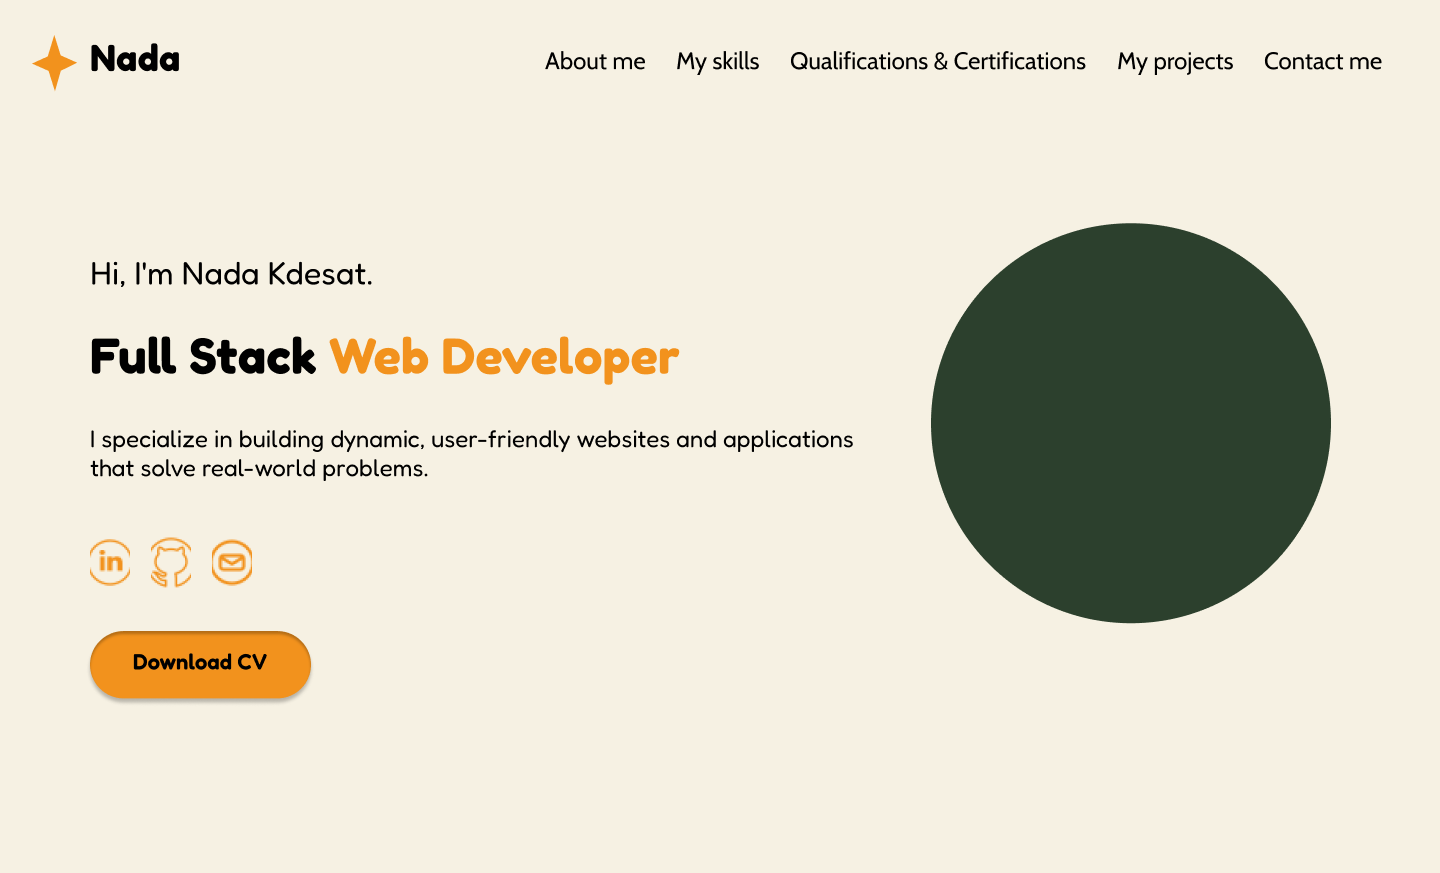
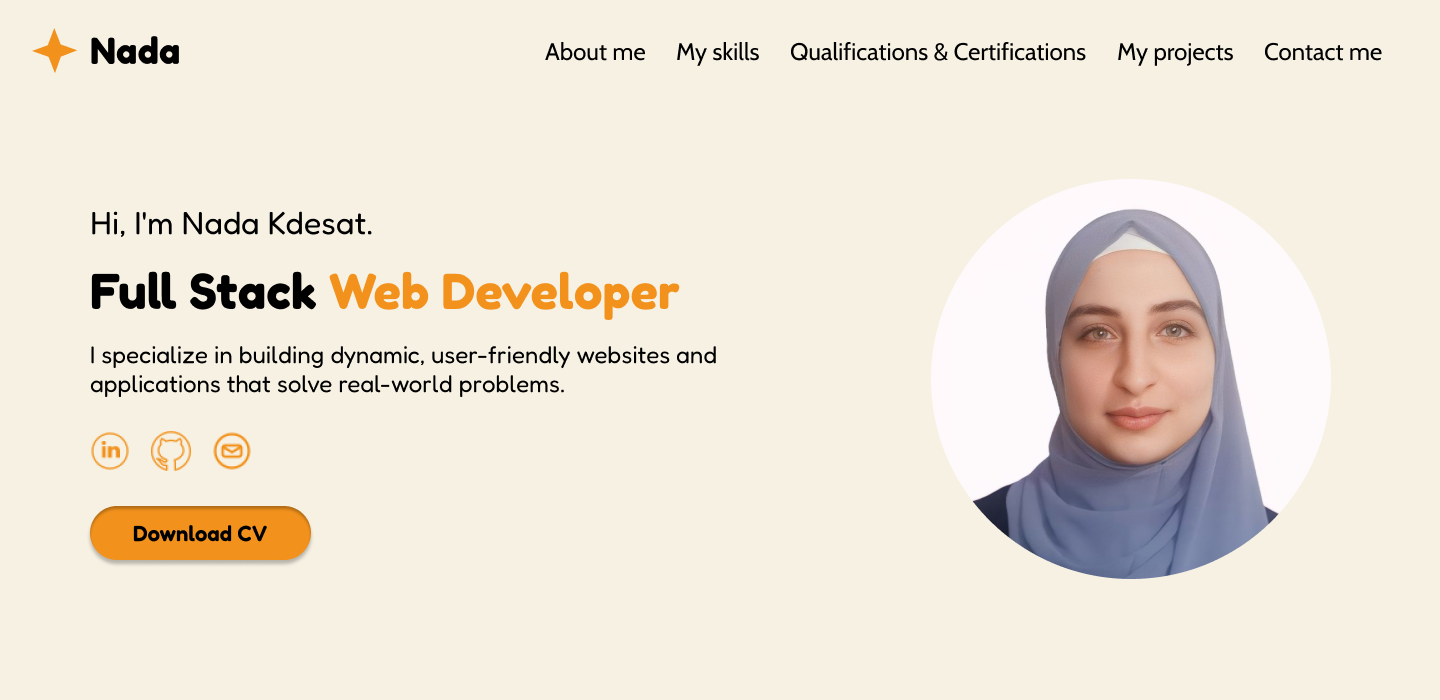
Portfolio

diff --git a/main.css b/main.css
@@ -68,10 +68,14 @@
 }
 
 .Hero_Section_content .content .social a{
-    margin: 0px 10px 0px 5px;
+    margin: 0px 5px 0px 5px;
     color: #F2921D;
     font-size: 1.8rem;
     text-decoration: none;
+}
+
+.Hero_Section_content .content .social a:hover{
+    transform: scale(1.2);
 }
 
 .Hero_Section_content .content .button{
@@ -276,6 +280,21 @@
     border-radius: 10px;
 }
 
+.Projects .flex-card .Project1:hover{
+    transform: scale(1.05);
+
+}
+
+.Projects .flex-card .Project2:hover{
+    transform: scale(1.05);
+
+}
+
+.Projects .flex-card .Project3:hover{
+    transform: scale(1.05);
+
+}
+
 .Projects .flex-card h3{
     margin-top: 30px;
     font-family: 'Fredoka';
@@ -324,7 +343,7 @@
 
 /*************************************************************************/
 .Contact_Me{
-    margin-bottom: 100px;
+    margin-bottom: 50px;
     height: 750px;
     padding: 40px;
     text-align: center;
@@ -388,7 +407,7 @@ footer {
   }
   
   .footer-logo {
-    margin-bottom: 80px;
+    margin-bottom: 60px;
     max-width: 300px;
   }
   
@@ -398,7 +417,7 @@ footer {
   }
   
   .footer-logo p {
-    margin: 10px 0 0;
+    margin: 10px 0 0 20px;
     font-size: 18px;
   }
   
@@ -437,6 +456,10 @@ footer {
     font-size: 1.5rem;
     text-decoration: none;
     margin-top: 80px;
+  }
+
+  .footer-social a:hover{
+    transform: scale(1.2);
   }
   
   .footer-bottom {

diff --git a/index.html b/index.html
@@ -53,7 +53,7 @@
         </div>
         <a href="./Nada Kdesat Software Engineering.pdf" download="Nada Kdesat Software Engineering.pdf"><button class="button">Download CV</button></a>
       </div>
-      <div class="My_Image"><img src="./images/Ellipse 1.png" alt="my image"></div>
+      <div class="My_Image"><img src="./images/me.png" alt="my image"></div>
     </div>
     </section>
     <!--End Hero_Section-->
@@ -61,7 +61,7 @@
     <!--About_me-->
     <section class="About_me" id="About">
         <div>
-            <img src="./images/Rectangle 32.png" alt="my images">
+            <img src="./images/me2.png" alt="my images">
         </div>
         <div class="right">
             <h2>About <span style="color: #F2921D;">Me</span></h2>
